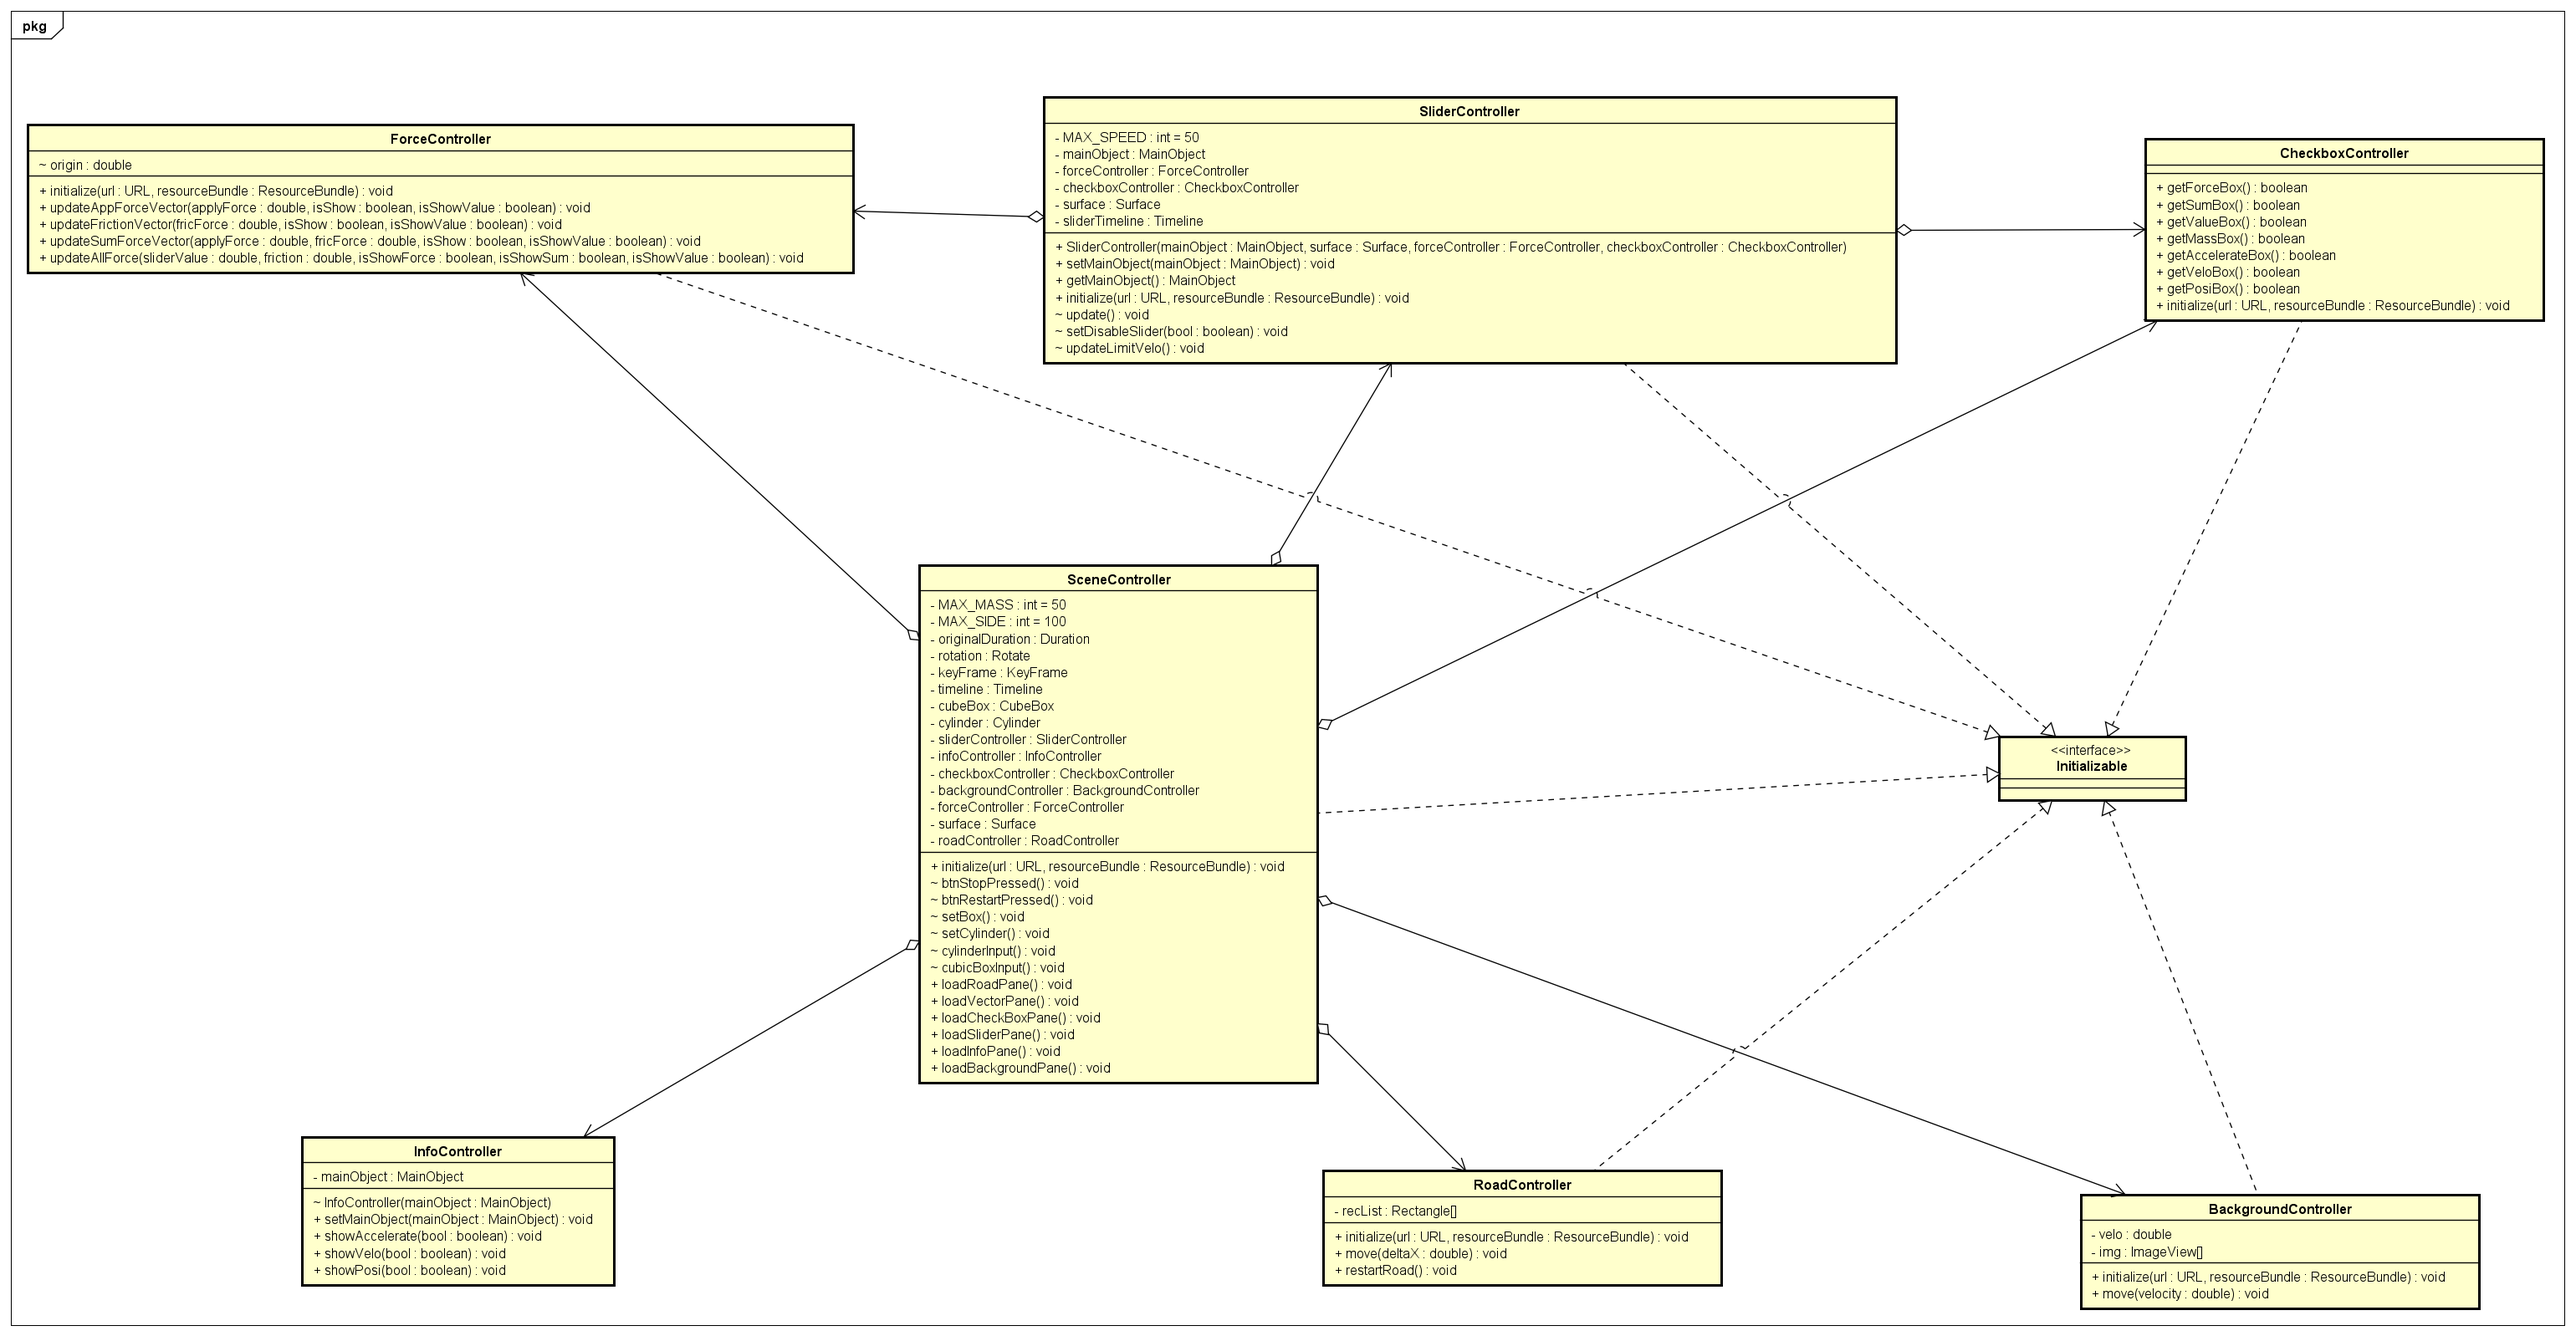
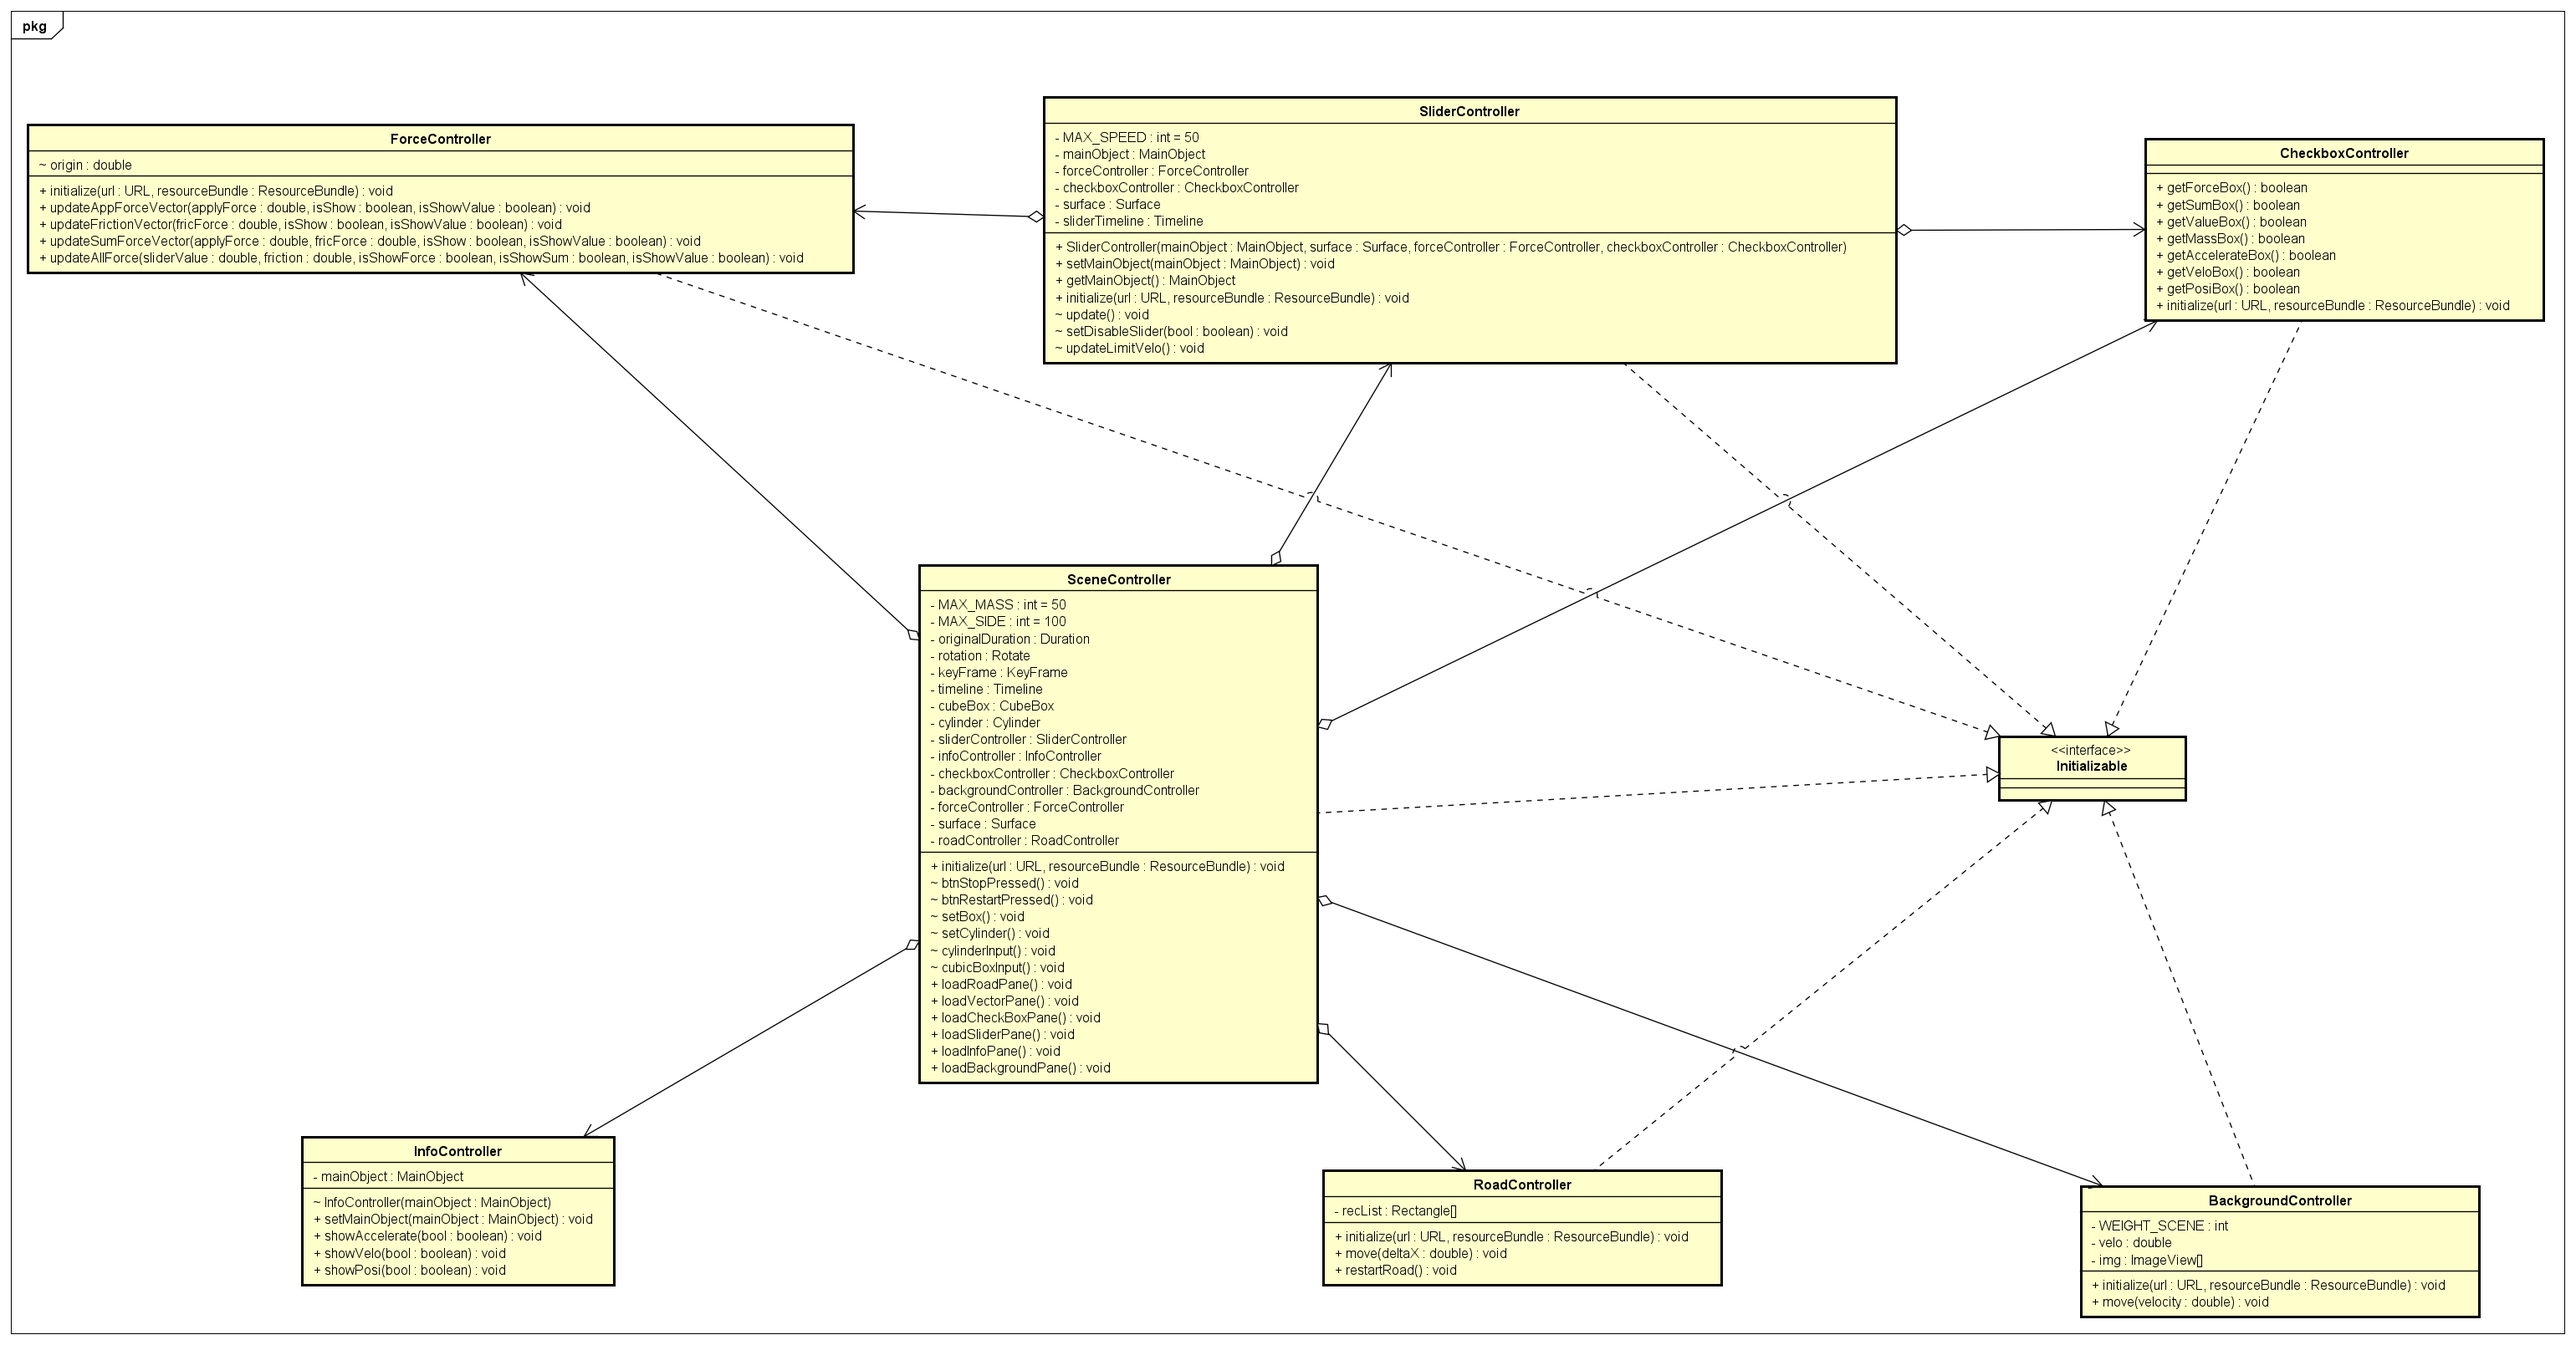
Comment code

diff --git a/src/main/java/dsai/forcesimulation/Controller/SliderController.java b/src/main/java/dsai/forcesimulation/Controller/SliderController.java
@@ -1,9 +1,10 @@
+
+/* This class is controller of slider which can change applied force */
 package dsai.forcesimulation.Controller;
 
 import dsai.forcesimulation.Model.Object.Cylinder;
 import dsai.forcesimulation.Model.Object.MainObject;
 import dsai.forcesimulation.Model.Surface.Surface;
-
 import javafx.animation.Animation;
 import javafx.animation.KeyFrame;
 import javafx.animation.Timeline;
@@ -12,26 +13,25 @@ import javafx.fxml.Initializable;
 import javafx.scene.control.Label;
 import javafx.scene.control.Slider;
 import javafx.util.Duration;
-
 import java.net.URL;
 import java.util.ResourceBundle;
 
 public class SliderController implements Initializable {
 
-    private final int MAX_SPEED = 50;
-    private MainObject mainObject;
-    private ForceController forceController;
-    private CheckboxController checkboxController;
-    private Surface surface;
+    private final int MAX_SPEED = 50;    //Max velocity that object can reach
+    private MainObject mainObject;         //Object that is running in the road
+    private ForceController forceController;    //Controller of vectors of force
+    private CheckboxController checkboxController;      //Controller of check box
+    private Surface surface;            //Surface to get friction coefficient
 
-    private Timeline sliderTimeline;
+    private Timeline sliderTimeline;             //Timeline define animations of javafx application
 
 
 
     @FXML
-    Slider slider;
+    Slider slider;            //slider to control applied force
     @FXML
-    Label forceLabel;
+    Label forceLabel;         //Label to show applied force
 
 
     public SliderController(MainObject mainObject,Surface surface, ForceController forceController, CheckboxController checkboxController){
@@ -55,9 +55,9 @@ public class SliderController implements Initializable {
     public void initialize(URL url, ResourceBundle resourceBundle) {
 
 
-        slider.setOnMouseDragged(e -> {
+        slider.setOnMouseDragged(e -> {                 //Set action when mouse drag in slider
 
-            if (mainObject.getVelocity() > 50 && slider.getValue() > 0){
+            if (mainObject.getVelocity() > 50 && slider.getValue() > 0){        //Set applied force = 0 when velocity of object exceed max velocity
                 this.slider.setValue(0);
 
             } else if (mainObject.getVelocity() < -50 && slider.getValue() < 0) {
@@ -65,34 +65,30 @@ public class SliderController implements Initializable {
             } else {
                 if (sliderTimeline != null){sliderTimeline.stop();}
                 Duration newDuration = Duration.millis(10);
-                KeyFrame newKeyFrame = new KeyFrame(newDuration, event -> {
-
-                    update();
+                KeyFrame newKeyFrame = new KeyFrame(newDuration, event -> {  //Defines target values at a specified point in
+                    update();                                                // time for a set of variables that are interpolated along a Timeline.
                 });
 
                 forceController.updateAllForce(slider.getValue(), mainObject.calculateFriction(slider.getValue(), surface.getStaticCoefficient(), surface.getKineticCoefficient()), checkboxController.getForceBox(),checkboxController.getSumBox(), checkboxController.getValueBox());
-
                 sliderTimeline = new Timeline(newKeyFrame);
                 sliderTimeline.setCycleCount(Animation.INDEFINITE);
                 sliderTimeline.play();
                 String formattedValue = String.format("%.0f", slider.getValue());
-                forceLabel.setText(formattedValue + " newtons");
+                forceLabel.setText(formattedValue + " newtons");        //Label show magnitude of applied force
             }
 
 
         });
-        slider.setOnMouseReleased(e -> {
+        slider.setOnMouseReleased(e -> {                //Set action when mouse is released from slider
             slider.setValue(0);
             String formattedValue = String.format("%.0f", slider.getValue());
             forceLabel.setText(formattedValue + " newtons");
 
             forceController.updateAllForce(slider.getValue(), mainObject.calculateFriction(slider.getValue(), surface.getStaticCoefficient(), surface.getKineticCoefficient()), checkboxController.getForceBox(),checkboxController.getSumBox(), checkboxController.getValueBox());
 
-
-
             if (sliderTimeline != null){sliderTimeline.stop();}
             Duration newDuration = Duration.millis(10);
-            KeyFrame newKeyFrame = new KeyFrame(newDuration, event -> {
+            KeyFrame newKeyFrame = new KeyFrame(newDuration, event -> {             // Create keyframe to update force continuously when slider does not change value
                 update();
             });
             sliderTimeline = new Timeline(newKeyFrame);
@@ -101,14 +97,15 @@ public class SliderController implements Initializable {
         });
     }
 
-    void update(){
-        double appliedForce = slider.getValue();
+    void update(){                                  //Update attribute of object: position, acceleration, velocity,...
+        double appliedForce = slider.getValue();    //Update applied force and friction
         double friction = mainObject.calculateFriction(slider.getValue(), surface.getStaticCoefficient(), surface.getKineticCoefficient());
         double acceleration = mainObject.calculateAcceleration(appliedForce, friction);
 
-
+        //Update force
         forceController.updateAllForce(slider.getValue(),friction , checkboxController.getForceBox(),checkboxController.getSumBox(), checkboxController.getValueBox());
 
+        //Update attribute of object
         if (mainObject instanceof Cylinder){
             double gamma = ((Cylinder) mainObject).calculateGamma(friction, mainObject.getMass(), mainObject.getSide());
             ((Cylinder) mainObject).updateAttribute(acceleration, gamma);
@@ -120,6 +117,7 @@ public class SliderController implements Initializable {
     void setDisableSlider(boolean bool){
         this.slider.setDisable(bool);
     }
+    //Limit velocity of object
     void updateLimitVelo(){
         if (mainObject.getVelocity() > MAX_SPEED && slider.getValue() > 0){
             this.slider.setValue(0);

diff --git a/src/main/java/dsai/forcesimulation/Controller/BackgroundController.java b/src/main/java/dsai/forcesimulation/Controller/BackgroundController.java
@@ -8,15 +8,18 @@ import java.net.URL;
 import java.util.ResourceBundle;
 
 public class BackgroundController implements Initializable {
+    private int WEIGHT_SCENE = 1500;
+    private ImageView[] img;        //Array contains images of background
+    private double velo;            //Velocity of background
     @FXML
     ImageView img1, img2;
-    private ImageView[] img;
-    private double velo;
 
     @Override
     public void initialize(URL url, ResourceBundle resourceBundle) {
         img = new ImageView[] {img1, img2};
     }
+
+    //Move background
     public void move(double velocity){
         if (velocity>0){
             velo = 0.2;
@@ -25,12 +28,12 @@ public class BackgroundController implements Initializable {
         } else {
             velo = 0;
         }
-
+        //Check if image is exceed weight of the scene then put them back.
         for (ImageView image: img){
-            if (image.getLayoutX()-velo < -1500){
-                image.setLayoutX(1500);
-            } else if (image.getLayoutX()-velo > 1500) {
-                image.setLayoutX(-1500);
+            if (image.getLayoutX()-velo < -WEIGHT_SCENE){
+                image.setLayoutX(WEIGHT_SCENE);
+            } else if (image.getLayoutX()-velo > WEIGHT_SCENE) {
+                image.setLayoutX(-WEIGHT_SCENE);
             } else {
                 image.setLayoutX(image.getLayoutX()-velo);
             }
